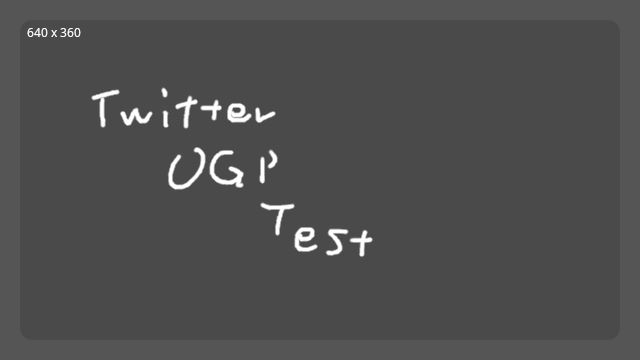
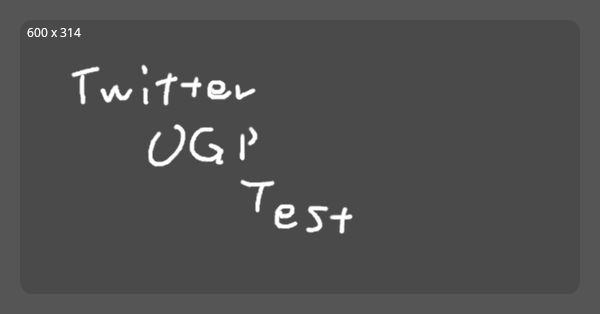
update

diff --git a/twitter/summary_large_image/index.html b/twitter/summary_large_image/index.html
@@ -9,8 +9,8 @@
       property="og:image"
       content="https://canoypa.github.io/ogp-test/image.png"
     />
-    <meta property="og:image:width" content="640" />
-    <meta property="og:image:height" content="360" />
+    <meta property="og:image:width" content="600" />
+    <meta property="og:image:height" content="314" />
 
     <meta name="twitter:card" content="summary_large_image" />
   </head>
